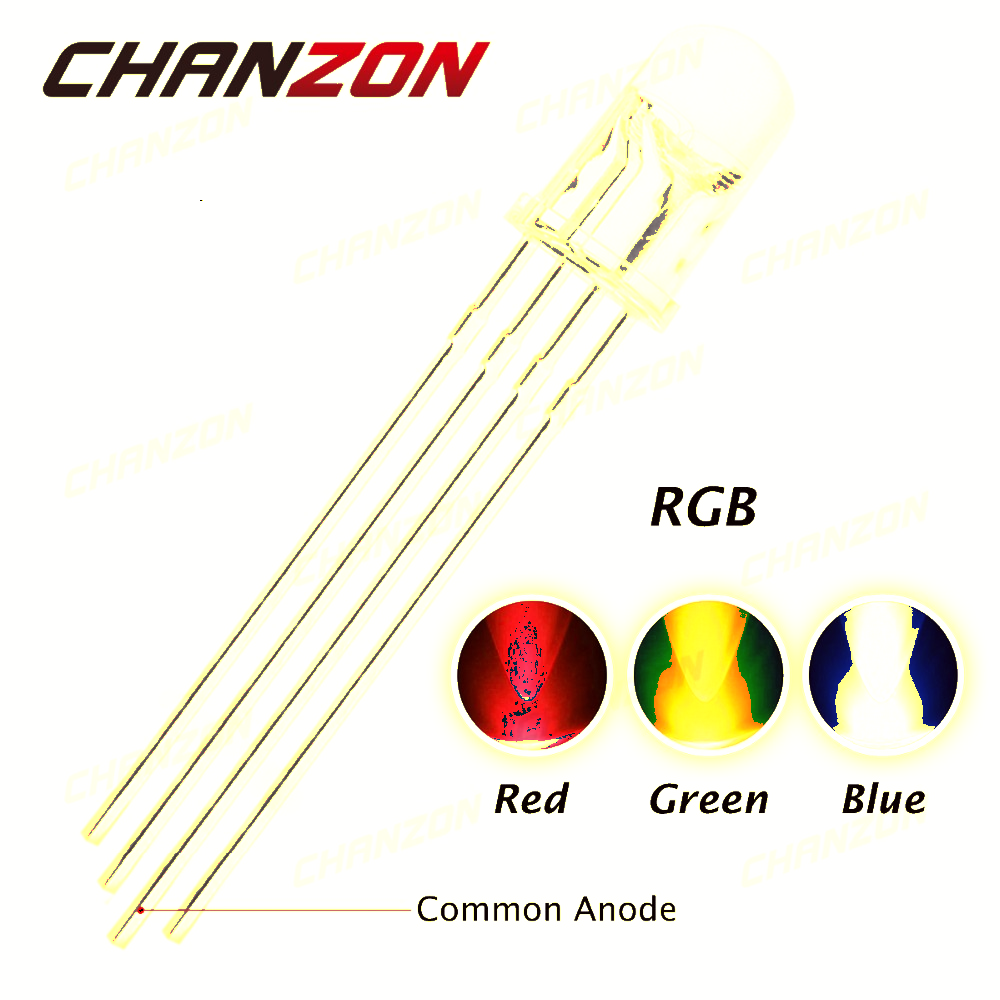
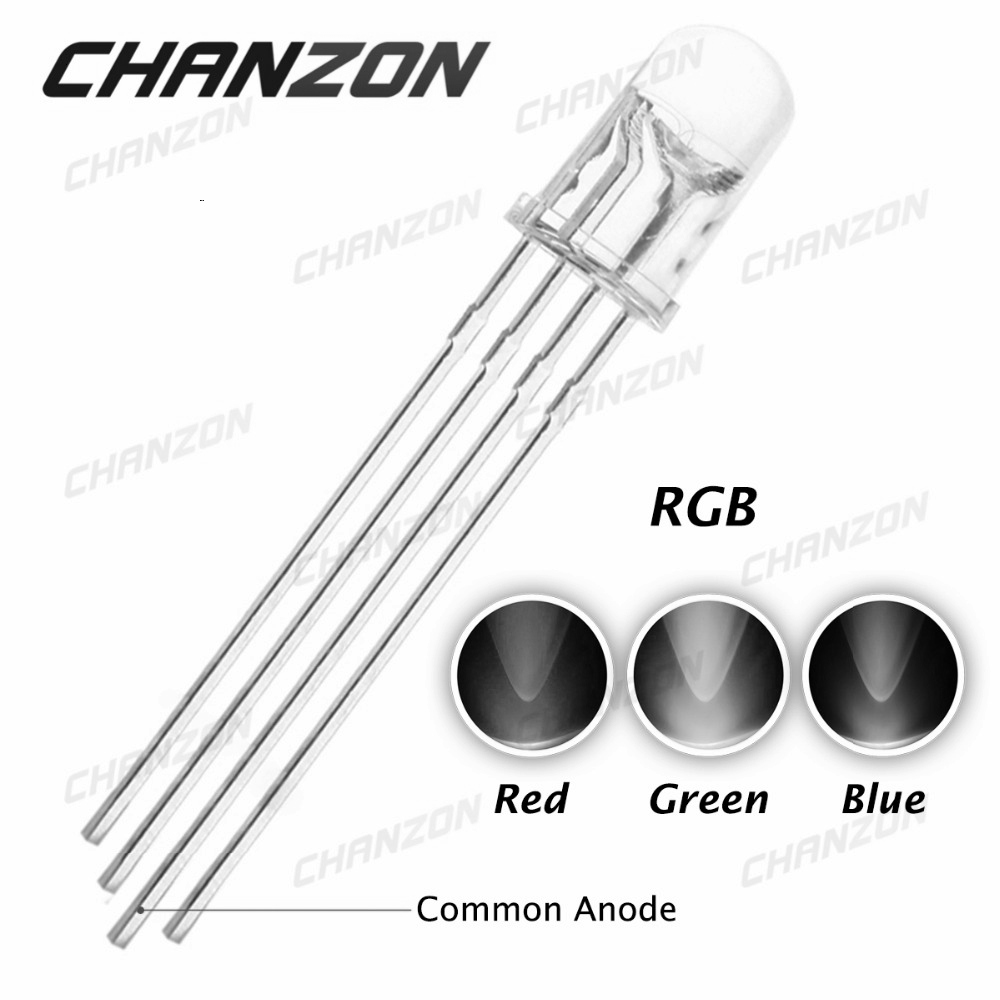
bug fix with pixels. simple grayscale conversion

diff --git a/src/main/java/com/veromeev/bsuir/dip/l1/util/ARGBImage.java b/src/main/java/com/veromeev/bsuir/dip/l1/util/ARGBImage.java
@@ -1,17 +1,12 @@
-package com.veromeev.bsuir.dip.l1;
+package com.veromeev.bsuir.dip.l1.util;
 
 import javax.imageio.ImageIO;
 import java.awt.image.BufferedImage;
 import java.io.File;
 import java.io.IOException;
 
-/**
- * Created by jack on 9/11/17.
- *
- * @author Jack Veromeyev
- */
 public class ARGBImage {
-    private PixelARGB[][] pixels;
+    private ARGBPixel[][] pixels;
     private int width;
     private int height;
     private BufferedImage bufferedImage;
@@ -21,10 +16,10 @@ public class ARGBImage {
         bufferedImage = ImageIO.read(imgPath);
         width = bufferedImage.getWidth();
         height = bufferedImage.getHeight();
-        pixels = new PixelARGB[width][height];
+        pixels = new ARGBPixel[width][height];
         for (int i = 0; i < width; i++) {
             for (int j = 0; j < height; j++) {
-                pixels[i][j] = new PixelARGB(bufferedImage.getRGB(i, j));
+                pixels[i][j] = new ARGBPixel(bufferedImage.getRGB(i, j));
             }
         }
     }
@@ -37,7 +32,7 @@ public class ARGBImage {
         return height;
     }
 
-    public PixelARGB getPixel(int x, int y) {
+    public ARGBPixel getPixel(int x, int y) {
         return pixels[x][y];
     }
 
@@ -49,5 +44,13 @@ public class ARGBImage {
         }
         File outputFile = new File(filename);
         ImageIO.write(bufferedImage, "png", outputFile);
+    }
+
+    public void forEach(SingleARGBPixelProcessor processor) {
+        for (ARGBPixel[] pixelRow : pixels) {
+            for (ARGBPixel pixel : pixelRow) {
+                processor.apply(pixel);
+            }
+        }
     }
 }

diff --git a/src/main/java/com/veromeev/bsuir/dip/l1/util/ARGBPixel.java b/src/main/java/com/veromeev/bsuir/dip/l1/util/ARGBPixel.java
@@ -1,13 +1,13 @@
-package com.veromeev.bsuir.dip.l1;
+package com.veromeev.bsuir.dip.l1.util;
 
-public class PixelARGB {
+public class ARGBPixel {
 
     private byte A, R, G, B;
 
-    public PixelARGB(int pixel) {
-        this.A = (byte) (pixel >> 24);
-        this.R = (byte) ((pixel >> 16) & 0x000000ff);
-        this.G = (byte) ((pixel >> 8) & 0x000000ff);
+    public ARGBPixel(int pixel) {
+        this.A = (byte) ((pixel&0xff000000) >> 24);
+        this.R = (byte) (((pixel&0x00ff0000) >> 16) & 0x000000ff);
+        this.G = (byte) (((pixel&0x0000ff00) >> 8) & 0x000000ff);
         this.B = (byte) (pixel & 0x000000ff);
     }
 
@@ -37,12 +37,12 @@ public class PixelARGB {
     }
 
     public int toARGBInteger() {
-        return ((int)A << 24) | ((int)R << 16) | ((int)G << 8) | (B);
+        return ( (((int)A << 24) & 0xff000000) | (((int)R << 16) & 0x00ff0000) | (((int)G << 8) & 0x0000ff00) | (((int)B) & 0x000000ff));
     }
 
     @Override
     public String toString() {
-        final StringBuilder sb = new StringBuilder("PixelARGB{");
+        final StringBuilder sb = new StringBuilder("ARGBPixel{");
         sb.append("A=").append(String.format("%02X", A));
         sb.append(", R=").append(String.format("%02X", R));
         sb.append(", G=").append(String.format("%02X", G));

diff --git a/src/main/java/com/veromeev/bsuir/dip/l1/fxapp/DIP1.java b/src/main/java/com/veromeev/bsuir/dip/l1/fxapp/DIP1.java
@@ -1,0 +1,42 @@
+package com.veromeev.bsuir.dip.l1.fxapp;
+
+import com.veromeev.bsuir.dip.l1.util.ARGBImage;
+import com.veromeev.bsuir.dip.l1.util.Conv;
+import javafx.application.Application;
+import javafx.stage.Stage;
+
+import java.io.IOException;
+
+public class DIP1 extends Application {
+
+    private final String resourcesPath = "./src/main/resources/";
+
+    public static void main(String[] args) {
+        launch(args);
+    }
+
+    @Override
+    public void start(Stage primaryStage) throws IOException {
+
+        ARGBImage image = new ARGBImage(resourcesPath + "1.png");
+
+        image.forEach(pixel -> {
+            int r = Conv.btoi(pixel.getR());
+            int g = Conv.btoi(pixel.getG());
+            int b = Conv.btoi(pixel.getB());
+
+            int gray = (int) ( ((double)r) * 0.3 + ((double) g) * 0.59 + ((double) b) * 0.11);
+
+            pixel.setR(Conv.itob(gray));
+            pixel.setG(Conv.itob(gray));
+            pixel.setB(Conv.itob(gray));
+        });
+        image.saveImage(resourcesPath + "2.png");
+
+        System.out.println("end processing");
+        primaryStage.close();
+    }
+
+
+
+}

diff --git a/src/main/java/com/veromeev/bsuir/dip/l1/util/Conv.java b/src/main/java/com/veromeev/bsuir/dip/l1/util/Conv.java
@@ -1,0 +1,16 @@
+package com.veromeev.bsuir.dip.l1.util;
+
+/**
+ * Created by jack on 9/13/17.
+ *
+ * @author Jack Veromeyev
+ */
+public class Conv {
+    public static int btoi(byte b) {
+        return (b & 0x000000ff);
+    }
+    public static byte itob(int i) {
+        i &= 0x000000ff;
+        return (byte) i;
+    }
+}

diff --git a/src/main/java/com/veromeev/bsuir/dip/l1/util/SingleARGBPixelProcessor.java b/src/main/java/com/veromeev/bsuir/dip/l1/util/SingleARGBPixelProcessor.java
@@ -1,0 +1,6 @@
+package com.veromeev.bsuir.dip.l1.util;
+
+@FunctionalInterface
+public interface SingleARGBPixelProcessor {
+    void apply(ARGBPixel pixel);
+}
